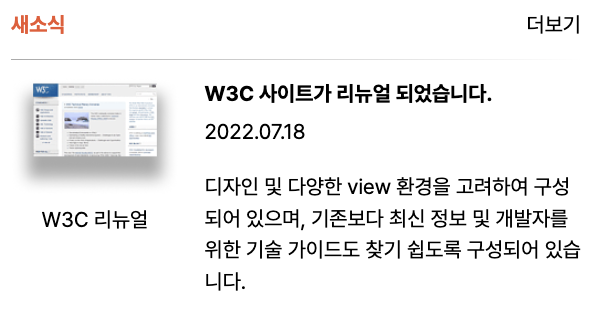
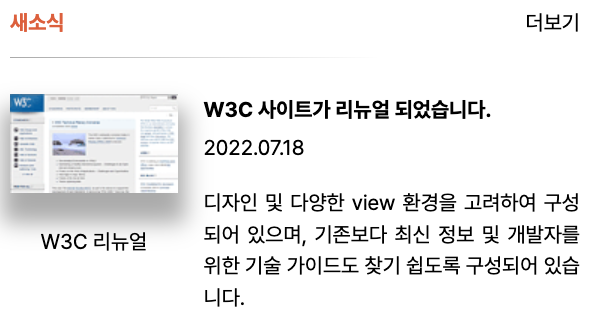
이미지 교체, 그라데이션 grid 수정 후 readme 수정

diff --git a/mission-04/grid.css b/mission-04/grid.css
@@ -23,14 +23,14 @@ span {
 .newsContainer {
   display: grid;
   width: 380px;
-  grid-column: 2fr;
+  grid-column: 3fr;
   grid-row: 4fr;
   grid-gap: 12px 17px;
   grid-template-areas:
-    "news more"
-    "line line"
-    "image title"
-    "image summary";
+    "news more more"
+    "line line ."
+    "image title title"
+    "image summary summary";
   font-size: 14px;
 }
 
@@ -51,6 +51,7 @@ span {
 .title {
   grid-area: title;
   font-weight: 700;
+  margin-top: 12px;
   margin-bottom: 4px;
   justify-items: start;
 }
@@ -59,10 +60,12 @@ span {
   grid-area: image;
   justify-items: center;
   text-align: center;
+  margin-top: 12px;
 }
 
 .image img {
-  width: 112px;
+  box-shadow: 0px 15px 15px 5px #aaaaaa;
+  margin-bottom: 16px;
 }
 
 .date {
@@ -74,6 +77,7 @@ span {
 
 .summary {
   grid-area: summary;
+  text-align: justify;
 }
 
 .more {

diff --git a/mission-04/grid.html b/mission-04/grid.html
@@ -18,7 +18,7 @@
         디자인 및 다양한 view 환경을 고려하여 구성되어 있으며, 기존보다 최신 정보 및 개발자를 위한 기술 가이드도 찾기 쉽도록 구성되어 있습니다.
       </p>
       <figure class="image">
-        <img src="./assets/news1.png" alt="W3C 웹화면" />
+        <img src="./assets/news.png" alt="W3C 웹화면" />
         <figcaption>W3C 리뉴얼</figcaption>
       </figure>
       <p class="more">더보기</p>

diff --git a/mission-04/README.md b/mission-04/README.md
@@ -15,10 +15,11 @@
 ### 1. Markup Order
 
 1. 새소식
-2. 새소식 내부 제목 및 날짜 (W3C 사이트가 리뉴얼 되었습니다. 2022.07.18.)
-3. 새소식 내용
-4. 이미지 figure > img, figcaption
-5. 더보기
+2. 회색 그라데이션 라인 (aria-hidden="true")
+3. 새소식 내부 제목 및 날짜
+4. 새소식 내용
+5. 이미지 figure > img, figcaption
+6. 더보기
 
 > 스크린리더가 읽어주는 순서로 생각했을 때, 새소식 section 임을 알리고, text 를 모두 읽은 뒤, 이미지를 안내하고, 모든 컨텐츠 읽기가 끝난 후 '더보기' 로 넘어가는 것이 합리적인 순서라고 생각하였습니다.
 
@@ -34,11 +35,11 @@
     W3C 사이트가 리뉴얼 되었습니다. <br />
     <span class="date">2022.07.18</span>
   </p>
+  <p class="summary">디자인 및 다양한 view 환경을 고려하여 구성되어 있으며, 기존보다 최신 정보 및 개발자를 위한 기술 가이드도 찾기 쉽도록 구성되어 있습니다.</p>
   <figure class="image">
-    <img src="./assets/news1.png" alt="W3C 웹화면" />
+    <img src="./assets/news.png" alt="W3C 웹화면" />
     <figcaption>W3C 리뉴얼</figcaption>
   </figure>
-  <p class="summary">디자인 및 다양한 view 환경을 고려하여 구성되어 있으며, 기존보다 최신 정보 및 개발자를 위한 기술 가이드도 찾기 쉽도록 구성되어 있습니다.</p>
   <p class="more">더보기</p>
 </section>
 ```
@@ -59,24 +60,16 @@
 .newsContainer {
   display: grid;
   width: 380px;
-  grid-column: 2fr;
+  grid-column: 3fr;
   grid-row: 4fr;
   grid-gap: 12px 17px;
   grid-template-areas:
-    "news more"
-    "line line"
-    "image title"
-    "image summary";
+    "news more more"
+    "line line ."
+    "image title title"
+    "image summary summary";
   font-size: 14px;
 }
 ```
 
-container 는 width 값만 설정해주었으며, 열은 2fr, 행은 4fr 로 구분하였습니다.
-
-<br/>
-
-## 3. Issue
-
----
-
-이미지 자체에 그림자가 있어서 figma 에 명시된 대로 width: 112px 로 주어도, 마치 image 에 margin 이나 padding 이 있는 것 같은 모양으로 배치되어 레이아웃이 다소 달라보이는 이슈가 있었으나, 해결방법을 찾지 못했습니다.
+container 는 width 값만 설정해주었으며, 열은 3fr, 행은 4fr 로 구분하였습니다.
